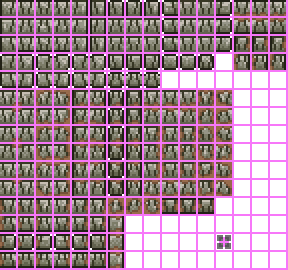
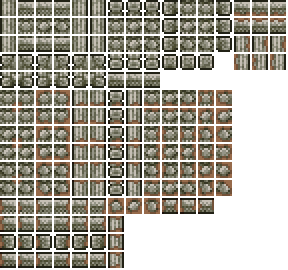
Sky brick

diff --git a/Items/Placeable/Tile/SkyBrickPlatform.cs b/Items/Placeable/Tile/SkyBrickPlatform.cs
@@ -1,0 +1,42 @@
+using Microsoft.Xna.Framework;
+using Terraria;
+using Terraria.ID;
+using Terraria.ModLoader;
+
+namespace Avalon.Items.Placeable.Tile;
+
+class SkyBrickPlatform : ModItem
+{
+    public override void SetStaticDefaults()
+    {
+        Item.ResearchUnlockCount = 100;
+    }
+
+    public override void SetDefaults()
+    {
+        Rectangle dims = this.GetDims();
+        Item.autoReuse = true;
+        Item.consumable = true;
+        Item.createTile = ModContent.TileType<Tiles.Furniture.SkyBrick.SkyBrickPlatform>();
+        Item.width = dims.Width;
+        Item.useTurn = true;
+        Item.useTime = 10;
+        Item.useStyle = ItemUseStyleID.Swing;
+        Item.maxStack = 9999;
+        Item.value = 300;
+        Item.useAnimation = 15;
+        Item.height = dims.Height;
+    }
+	
+    public override void AddRecipes()
+    {
+        CreateRecipe(2)
+            .AddIngredient(ModContent.ItemType<Tile.SkyBrick>())
+            .Register();
+
+        Recipe.Create(ModContent.ItemType<Tile.SkyBrick>())
+            .AddIngredient(this, 2)
+            .DisableDecraft()
+            .Register();
+    }
+}

diff --git a/Items/Placeable/Beam/SkyBrickColumn.cs b/Items/Placeable/Beam/SkyBrickColumn.cs
@@ -1,0 +1,34 @@
+using Microsoft.Xna.Framework;
+using Terraria.ID;
+using Terraria.ModLoader;
+
+namespace Avalon.Items.Placeable.Beam;
+
+class SkyBrickColumn : ModItem
+{
+    public override void SetStaticDefaults()
+    {
+        Item.ResearchUnlockCount = 50;
+    }
+
+    public override void SetDefaults()
+    {
+        Rectangle dims = this.GetDims();
+        Item.autoReuse = true;
+        Item.consumable = true;
+        Item.createTile = ModContent.TileType<Tiles.SkyBrickColumn>();
+        Item.width = dims.Width;
+        Item.useTurn = true;
+        Item.useTime = 10;
+        Item.useStyle = ItemUseStyleID.Swing;
+        Item.maxStack = 9999;
+        Item.useAnimation = 15;
+        Item.height = dims.Height;
+    }
+    public override void AddRecipes()
+    {
+        Terraria.Recipe.Create(Type, 2)
+            .AddIngredient(ModContent.ItemType<Tile.SkyBrick>())
+            .AddTile(TileID.Sawmill).Register();
+    }
+}

diff --git a/Tiles/SkyBrickColumn.cs b/Tiles/SkyBrickColumn.cs
@@ -1,0 +1,19 @@
+using Microsoft.Xna.Framework;
+using Terraria.ID;
+using Terraria.ModLoader;
+
+namespace Avalon.Tiles;
+
+public class SkyBrickColumn : ModTile
+{
+    public override void SetStaticDefaults()
+    {
+        AddMapEntry(new Color(181, 172, 190));
+        TileID.Sets.IsBeam[Type] = true;
+        DustType = DustID.Smoke;
+    }
+    public override void SetDrawPositions(int i, int j, ref int width, ref int offsetY, ref int height, ref short tileFrameX, ref short tileFrameY)
+    {
+        height = 18;
+    }
+}

diff --git a/Tiles/Furniture/SkyBrick/SkyBrickFurniture.cs b/Tiles/Furniture/SkyBrick/SkyBrickFurniture.cs
@@ -1,0 +1,17 @@
+using Avalon.Common.Templates;
+using Microsoft.Xna.Framework;
+using Microsoft.Xna.Framework.Graphics;
+using System.Collections.Generic;
+using Terraria;
+using Terraria.ID;
+using Terraria.ModLoader;
+using Terraria.ObjectData;
+
+namespace Avalon.Tiles.Furniture.SkyBrick;
+
+
+
+public class SkyBrickPlatform : PlatformTemplate
+{
+    public override int Dust => DustID.Smoke;
+}
